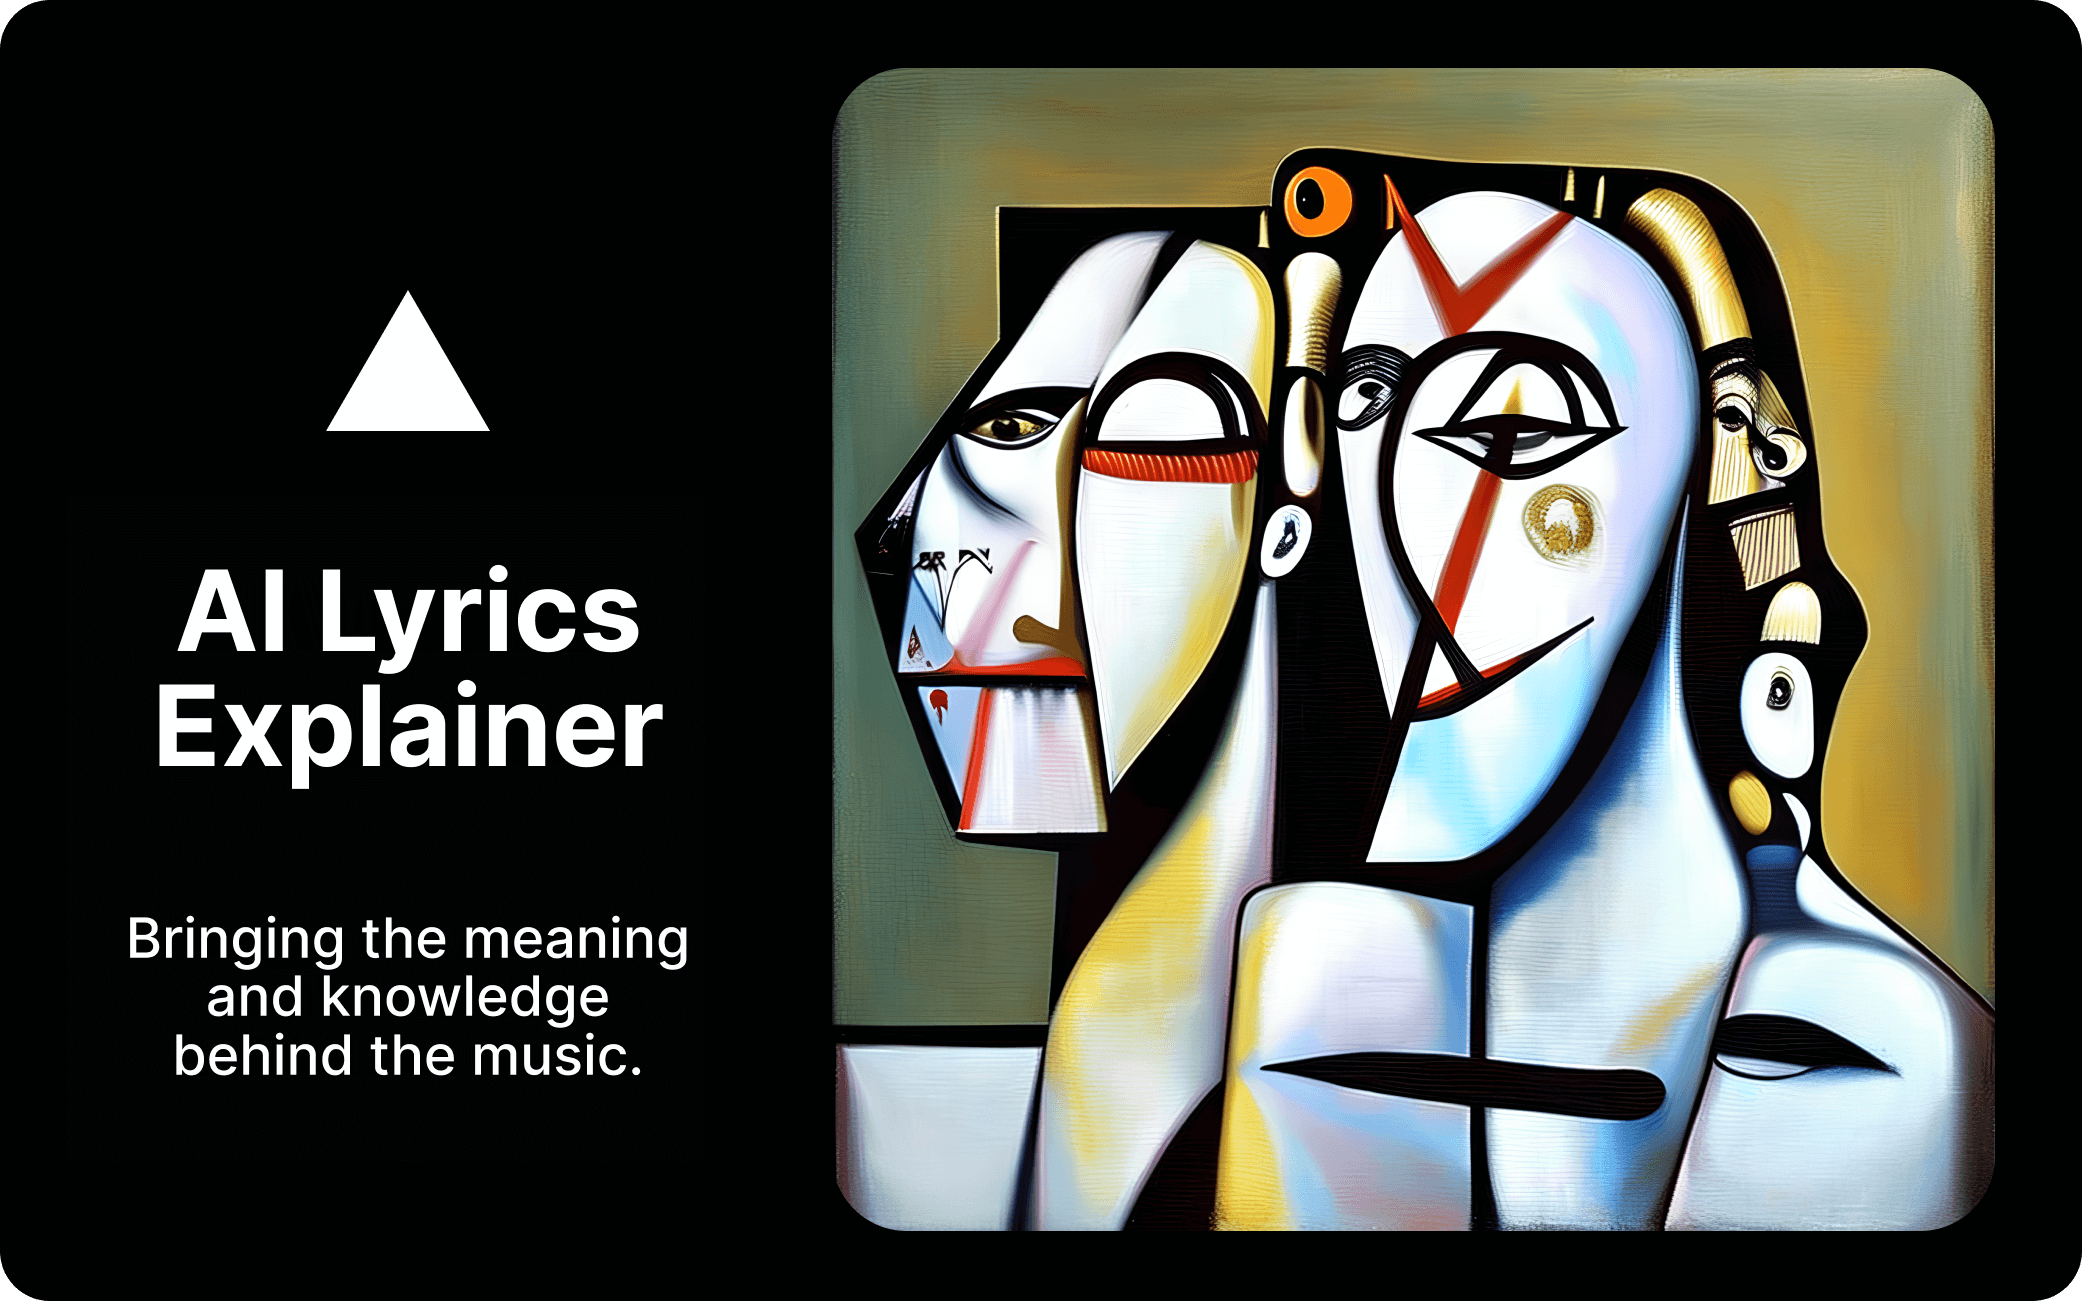
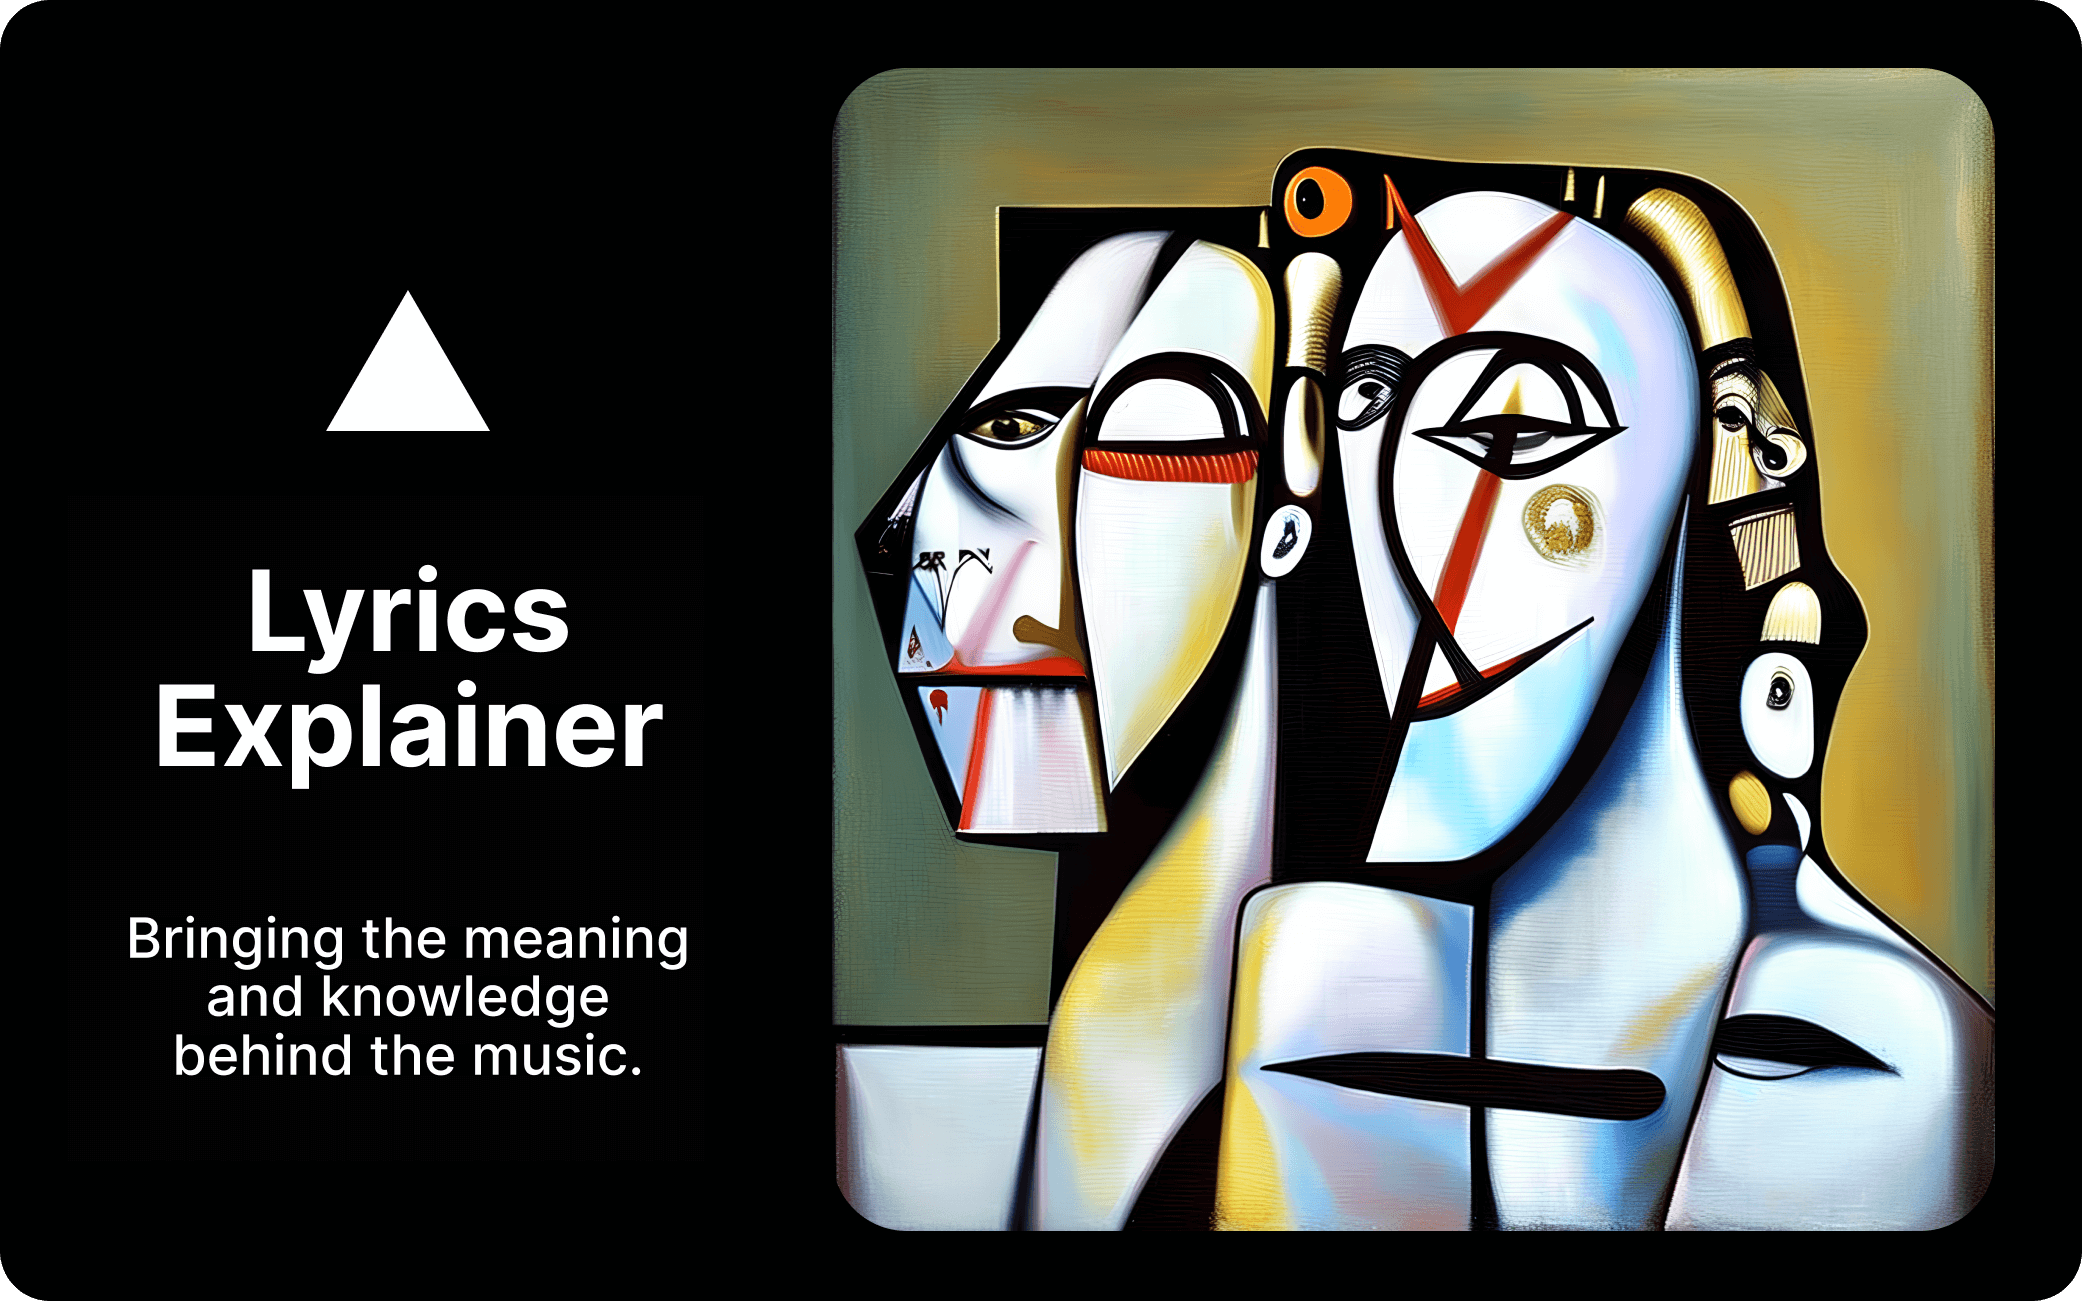
update og image

Changed region(s): [[0.0624, 0.4304, 0.3122, 0.5227]]

diff --git a/utils/constants.ts b/utils/constants.ts
@@ -11,10 +11,10 @@ No me has olvida'o, no me has olvida'o.
 
 export const meta = {
   name: "Explain Lyrics",
-  domain: "lyricsMeaning.vercel.app",
-  description: "Summarize and explain music lyrics.",
+  domain: "explain-lyrics.vercel.app",
+  description: "Summarize and explain lyrics meaning.",
   repoLink: "https://github.com/vladmdgolam/gpt-album-sum",
   authorTwitter: "https://twitter.com/vladmdgolam",
-  address: "https://lyricsmeaning.vercel.app",
-  author: "Vlad MD Golam",
+  address: "https://explain-lyrics.vercel.app",
+  author: "Vlad Md Golam",
 }
